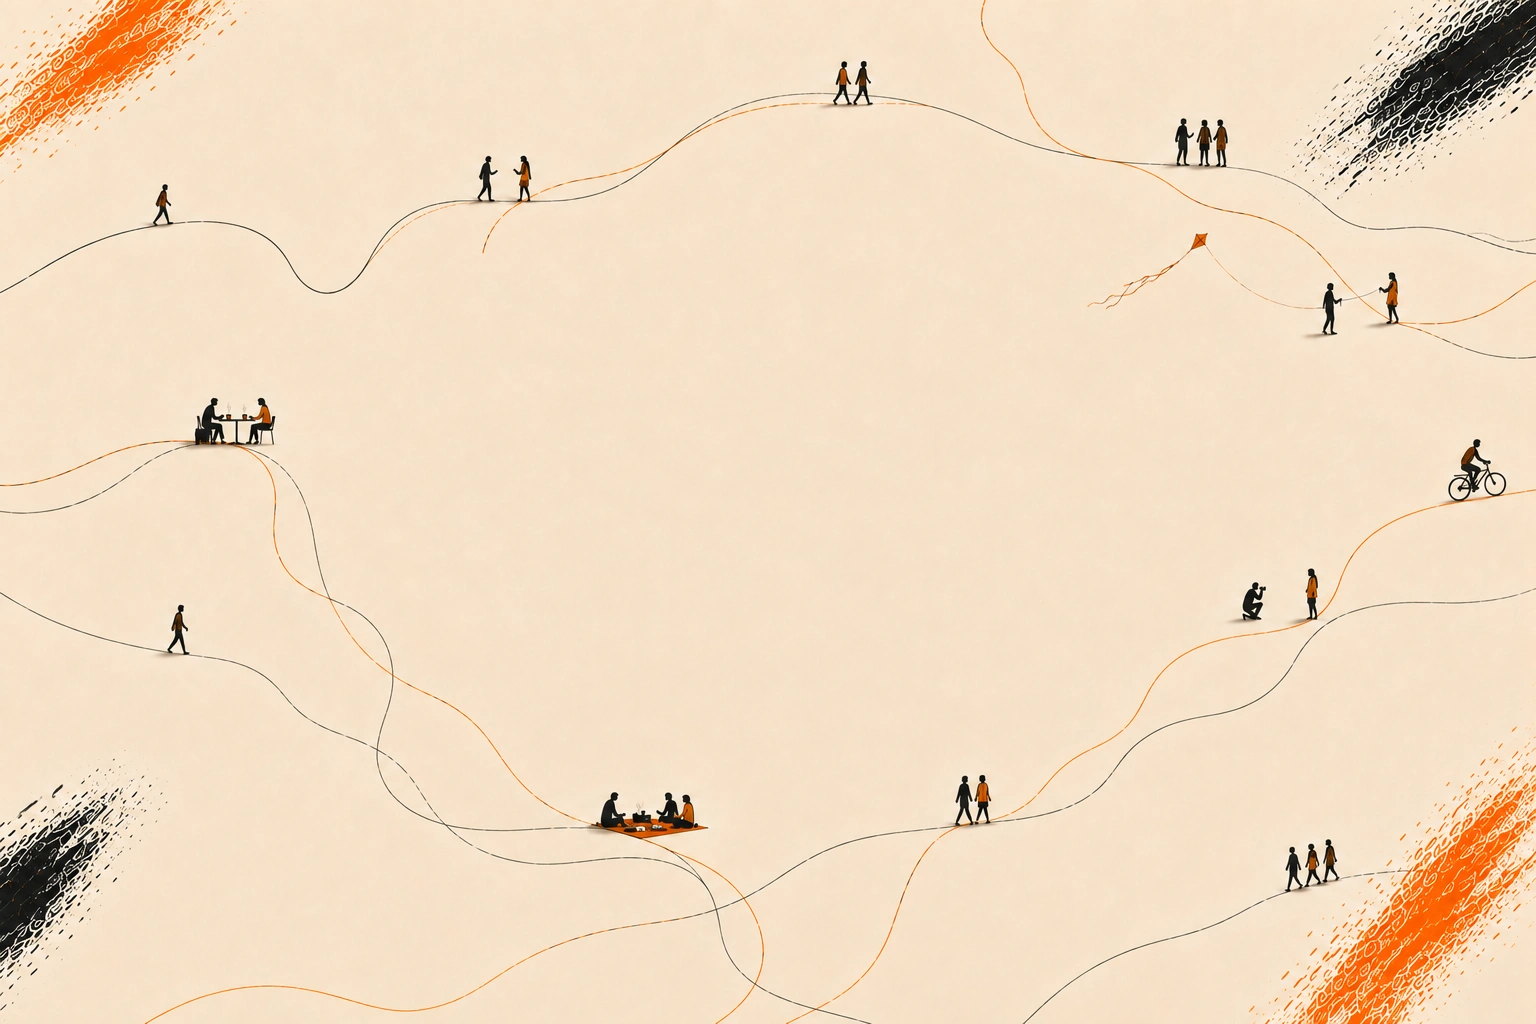
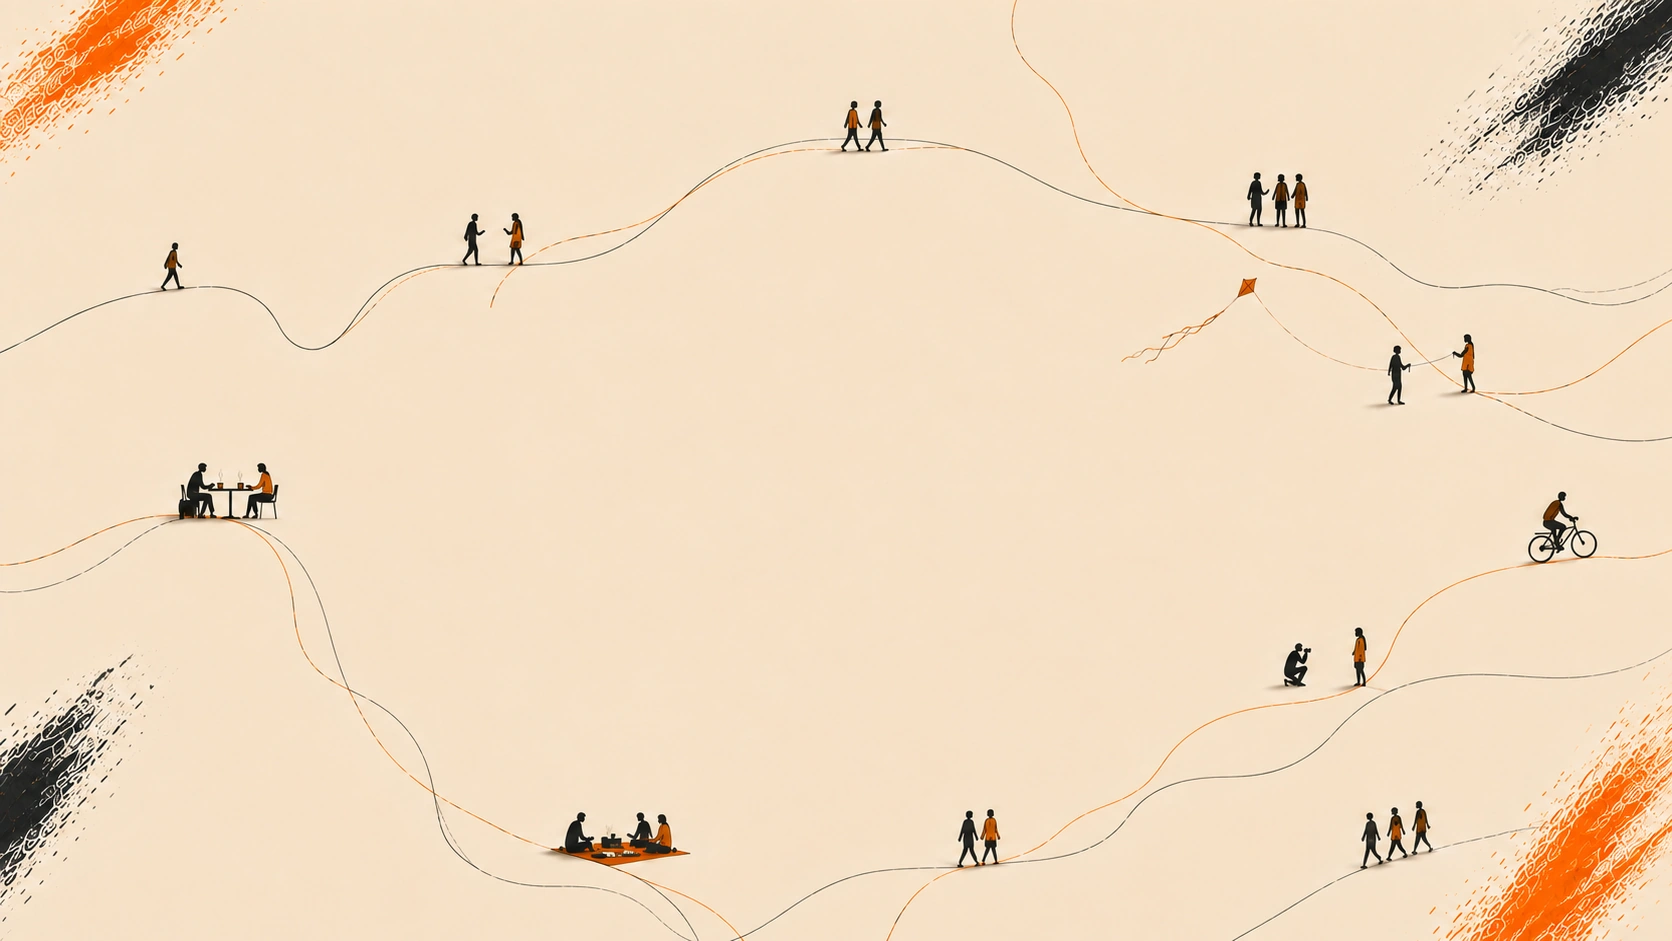
w

diff --git a/app/globals.css b/app/globals.css
@@ -591,19 +591,22 @@ body {
   pointer-events: none;
   background-image: url("/images/hero-desktop.webp");
   background-repeat: no-repeat;
-  /* v101 artwork: verified by rendering the real tagline+subline box (not
-     an estimated container width) at nine desktop viewports from 1024x768
-     to 2560x1440 and sampling the artwork underneath it for ink. Cover
-     alone (50%/50%) already clears the box at every size, but 74%/49%
-     with a small 1.08x zoom anchored at that same point centers the copy
-     inside the widest part of the void with the most margin on all four
-     sides — verified 0.000% ink behind the copy box (+16px pad) at every
-     tested size. transform-origin is set to the same point as
-     background-position so the zoom is anchored consistently with it. */
+  /* v104 artwork: a new 16:9 composition (1672x941), not a re-export of
+     the v101/v102 one — different aspect ratio and layout, so the old
+     74%/49% position doesn't apply here and was re-solved from scratch.
+     Verified by rendering the real tagline+subline box with the actual
+     Instrument Serif font at nine desktop viewports from 1024x768 to
+     2560x1440 and sampling this artwork underneath it for ink. 50%/59%
+     with a 1.2x zoom anchored at that same point centers the copy in
+     this artwork's void with 0.000% ink behind the copy box (+16px pad)
+     at every tested size — centered position this time rather than
+     off-center, since that's where this composition's void actually
+     sits. transform-origin matches background-position so the zoom is
+     anchored consistently with it. */
   background-size: cover;
-  background-position: 74% 49%;
-  transform: scale(1.08);
-  transform-origin: 74% 49%;
+  background-position: 50% 59%;
+  transform: scale(1.2);
+  transform-origin: 50% 59%;
 }
 
 @media (max-width: 767px) {
